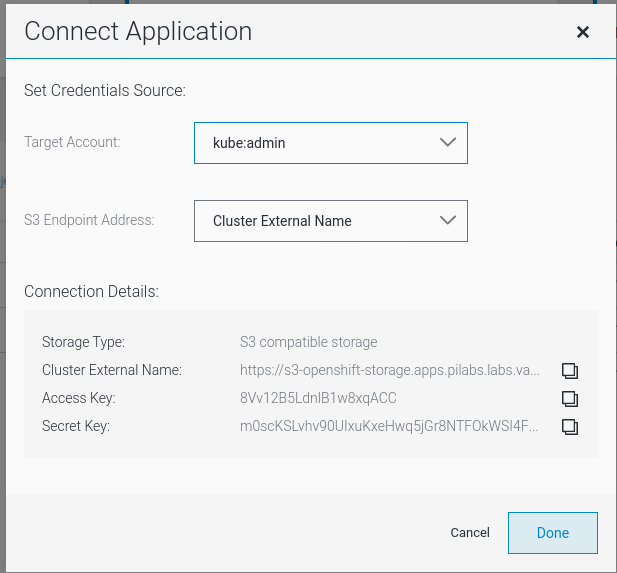
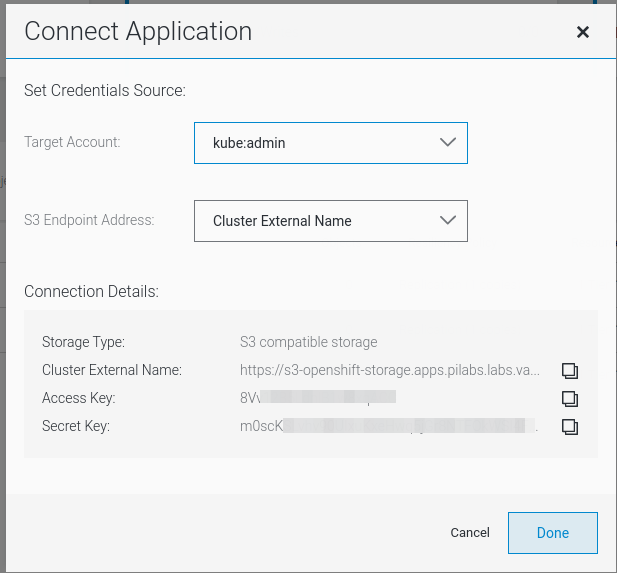
update doc

Changed region(s): [[0.4311, 0.6824, 0.7391, 0.7714], [0.7699, 0.712, 0.8622, 0.7714]]

diff --git a/Readme.md b/Readme.md
@@ -11,7 +11,7 @@
 3. Check Volume Snapshot Classes for CSI provider
 4. Install Velero integrated with AWS provider and CSI-provider.
 5. Deploy a WordPress using MariaDB as the database with a persistent volume as an example.
-6. Apply an example Theme to the wordpress.
+6. Apply an example Theme to the WordPress.
 7. Make a backup of our WordPress project
 8. Delete and recover our WordPress project
 
@@ -82,8 +82,8 @@ vi credentials-velero
 
 ```
 [default]
-aws_access_key_id = 8Vv12B5LdnlB1w8xqACC
-aws_secret_access_key = m0scKSLvhv90UIxuKxeHwq5jGr8NTFOkWSI4F8iN
+aws_access_key_id = 8Vv12B5LXXXXXXXXXXXXXXX
+aws_secret_access_key = m0scKSLvhv90XXXXXXXXXXXXXXXXXXXx
 ```
 
 * The Cluster External Name (The URL Connection) by default is a connection secure https, but OpenShift will create and mount an auto signed certificate, and Velero will crash due the auto signed certificate. You can mount a valid signed certificate or just create a plain Route http for demo purpose or  internal  communications.
@@ -92,7 +92,7 @@ aws_secret_access_key = m0scKSLvhv90UIxuKxeHwq5jGr8NTFOkWSI4F8iN
 oc expose service s3 --name=s3-insecure --port=s3  --hostname=s3-insecure-openshift-storage.apps.pilabs.labs.vass.es
 ```
 
-#### Install Velero with the infomation obtained.
+#### Install Velero with the information obtained.
 
 * Change <> with your environment details:
 
@@ -109,7 +109,7 @@ velero install --provider aws  --plugins velero/velero-plugin-for-aws:v1.0.1,vel
 
 ## 5) Deploy a WordPress using MariaDB as the database with a persistent volume as an example.
 
-* Create a new project for wordpress
+* Create a new project for WordPress
 
 ```
 oc new-project wordpress
@@ -170,7 +170,7 @@ mariadb-1-deploy   0/1     Completed   0          3m1s
 
 ```
 
-* Deploy WordPress using OpenShift templates from github
+* Deploy WordPress using OpenShift templates from GitHub
 
 ```
 oc new-app php~https://github.com/wordpress/wordpress
@@ -213,7 +213,7 @@ Access to WordPress console and install the site.
 
 <img src="https://github.com/vass-engineering/Demo-backupOpenShift46-velero/blob/main/DocsImages/RunInstallationWP.png" width="700">
 
-## 6)Apply an example Theme to the wordpress.
+## 6)Apply an example Theme to the WordPress.
 
 * Once WP is installed, just make a custom change. For example apply a theme.
 
@@ -283,7 +283,7 @@ NAME                          BACKUP         STATUS            STARTED   COMPLET
 wordpressbck-20210129102324   wordpressbck   PartiallyFailed   <nil>     <nil>       1        1          2021-01-29 10:23:46 +0100 CET   <none>
 ```
 
-* Check the pods and objets from your project.
+* Check the pods and objects from your project.
 
 
 ```
@@ -302,7 +302,7 @@ mariadb   Bound    pvc-93189147-46ad-4458-9530-036822d5e229   20Gi       RWO    
 
 ```
 
-* Check your database to check that we have recover all the informacion:
+* Check your database:
 
 ```
 oc rsh mariadb-1-vg76x  
